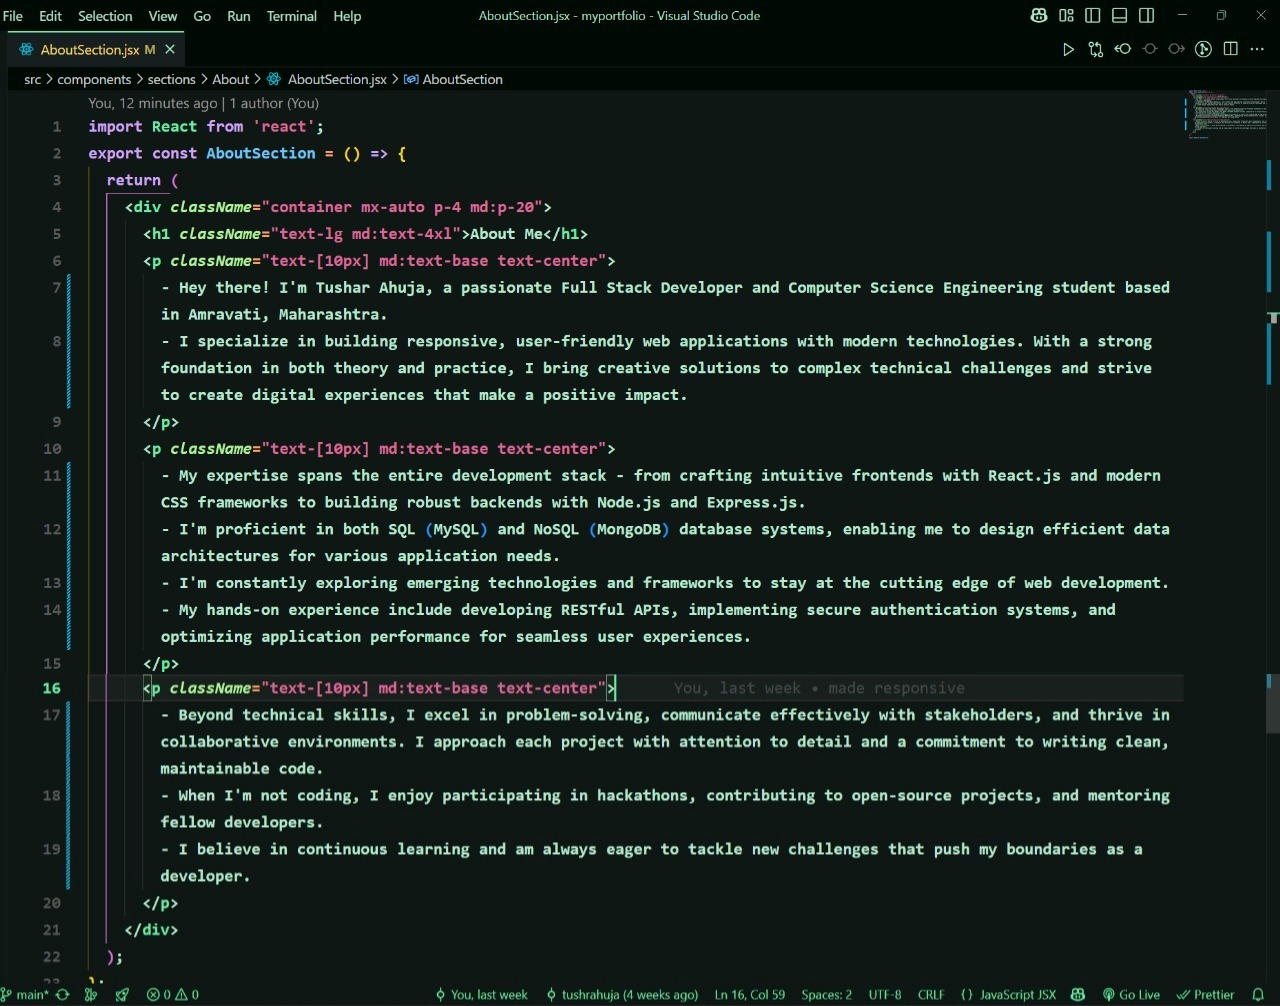
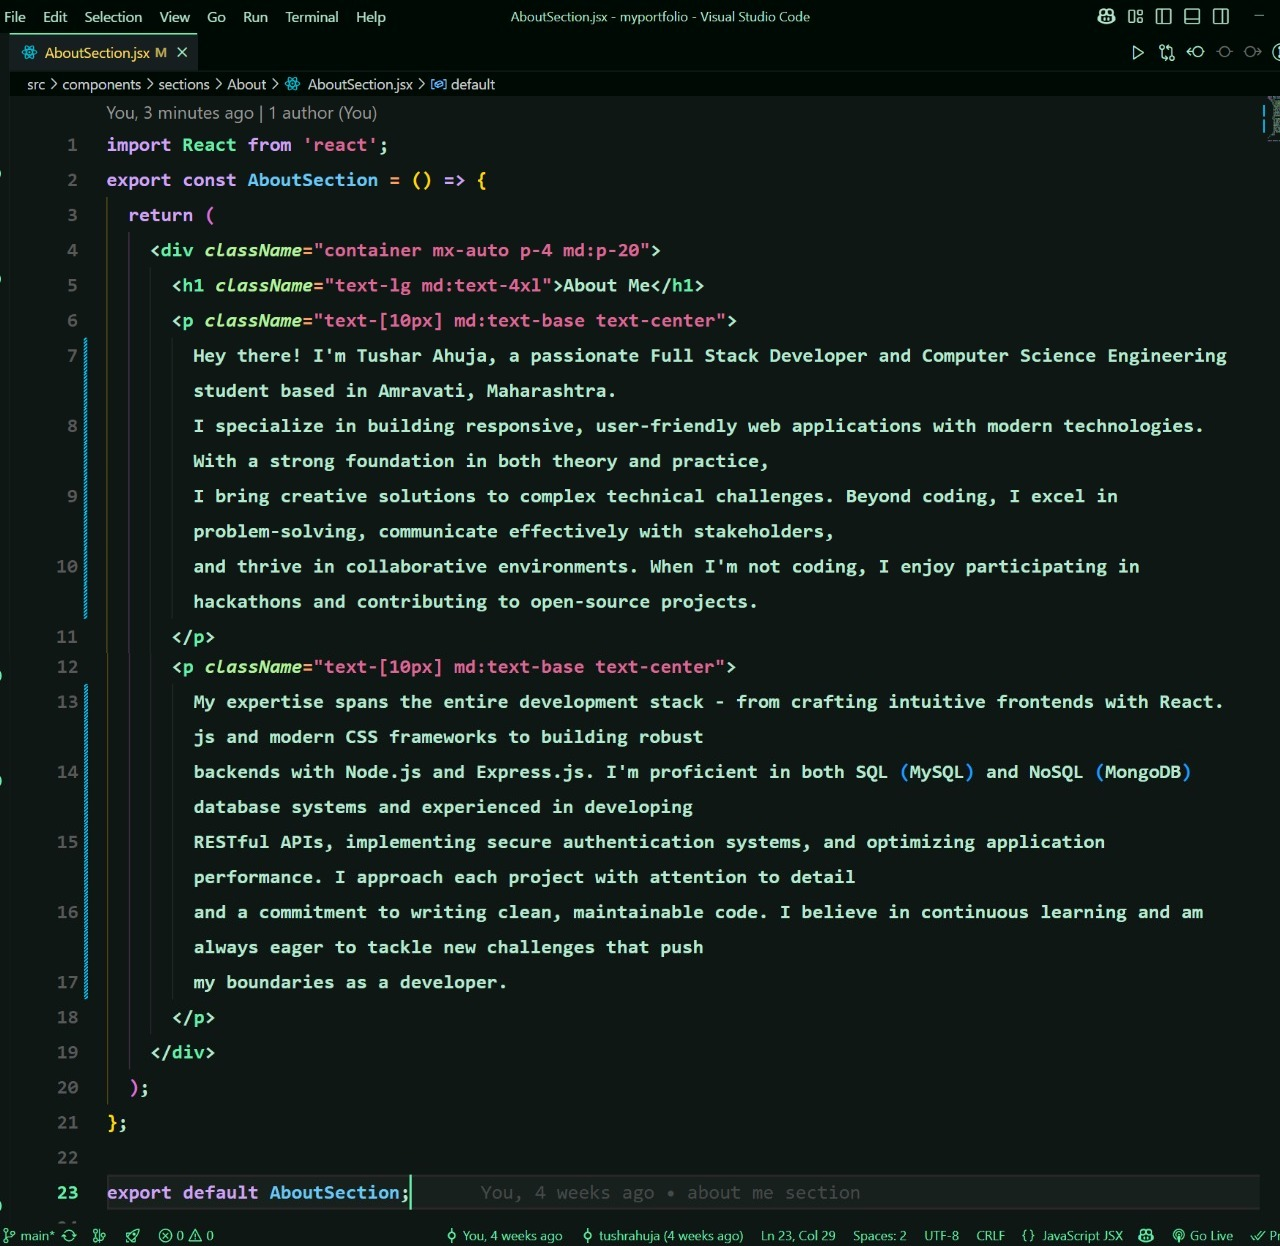
about me fixed

diff --git a/src/components/sections/About/ContainerScroll.jsx b/src/components/sections/About/ContainerScroll.jsx
@@ -2,8 +2,14 @@
 import React, { useRef } from "react";
 import { useScroll, useTransform, motion } from "framer-motion";
 
-export const ContainerScroll = ({ titleComponent, children }) => {
+export const ContainerScroll = ({
+  titleComponent,
+  children
+}) => {
   const containerRef = useRef(null);
+  const { scrollYProgress } = useScroll({
+    target: containerRef,
+  });
   const [isMobile, setIsMobile] = React.useState(false);
 
   React.useEffect(() => {
@@ -17,38 +23,35 @@ export const ContainerScroll = ({ titleComponent, children }) => {
     };
   }, []);
 
-  const { scrollYProgress } = useScroll({
-    target: containerRef,
-    offset: isMobile 
-      ? ["start 80%", "center 20%"]  // Start animation earlier on mobile (at 80% from bottom of viewport)
-      : ["start 60%", "center center"]  // Keep original timing for laptop
-  });
-
   const scaleDimensions = () => {
-    return isMobile ? [0.8, 1] : [1.05, 1];
+    return isMobile ? [0.7, 0.9] : [1.05, 1];
   };
 
-  const rotate = useTransform(
-    scrollYProgress, 
-    [0, 1], 
-    isMobile ? [40, 0] : [30, 0]  // Increased initial rotation for laptop
-  );
+  const rotate = useTransform(scrollYProgress, [0, 1], [20, 0]);
   const scale = useTransform(scrollYProgress, [0, 1], scaleDimensions());
   const translate = useTransform(scrollYProgress, [0, 1], [0, -100]);
+  
+  // Add shadow transform
+  const shadowOpacity = useTransform(
+    scrollYProgress,
+    [0, 1],
+    ['0 0 #0000004d, 0 9px 20px #0000004a, 0 37px 37px #00000042, 0 84px 50px #00000026, 0 149px 60px #0000000a, 0 233px 65px #00000003',
+     '0 0 #0000002d, 0 4px 10px #0000002a, 0 15px 15px #00000022, 0 35px 25px #00000016, 0 60px 30px #0000000a, 0 95px 35px #00000003']
+  );
 
   return (
     <div
-      className="h-[45rem] md:h-[80rem] flex flex-col items-center justify-center relative p-0" // Removed pt-20 to eliminate extra space
+      className={`${isMobile ? 'h-[50rem] -mt-6' : 'h-[100rem]'} flex items-center justify-center relative p-0 w-full`} // Adjusted negative margin for mobile
       ref={containerRef}
     >
-      <Header translate={translate} titleComponent={titleComponent} />
       <div
-        className="w-full relative flex items-center justify-center"
+        className="py-0 w-full relative flex flex-col items-center justify-center"
         style={{
           perspective: "1000px",
         }}
       >
-        <Card rotate={rotate} translate={translate} scale={scale}>
+        <Header translate={translate} titleComponent={titleComponent} />
+        <Card rotate={rotate} translate={translate} scale={scale} shadowOpacity={shadowOpacity} isMobile={isMobile}>
           {children}
         </Card>
       </div>
@@ -62,23 +65,29 @@ export const Header = ({ translate, titleComponent }) => {
       style={{
         translateY: translate,
       }}
-      className="div max-w-5xl mx-auto text-center"
+      className="div max-w-5xl mx-auto text-center mb-0" // Removed all margin
     >
       {titleComponent}
     </motion.div>
   );
 };
 
-export const Card = ({ rotate, scale, translate, children }) => {
+export const Card = ({
+  rotate,
+  scale,
+  translate,
+  children,
+  isMobile,
+  shadowOpacity
+}) => {
   return (
     <motion.div
       style={{
         rotateX: rotate,
         scale,
-        boxShadow:
-          "0 0 #0000004d, 0 9px 20px #0000004a, 0 37px 37px #00000042, 0 84px 50px #00000026, 0 149px 60px #0000000a, 0 233px 65px #00000003",
+        boxShadow: shadowOpacity, // Use dynamic shadow
       }}
-      className="max-w-5xl mx-auto h-[35rem] md:h-[60rem] w-[98vw] md:w-full border-4 border-black p-1 md:p-6 bg-[#222222] rounded-[30px] shadow-2xl" // Kept borders intact
+      className={`max-w-5xl mx-auto ${isMobile ? 'h-[40rem] w-[100%] px-2' : 'h-[60rem] w-full p-6'} border-4 border-black bg-[#222222] rounded-[30px] shadow-2xl`}
     >
       <div className="h-full w-full overflow-hidden rounded-2xl bg-black dark:bg-zinc-900 border-4 border-lightblue dark:border-gray-600">
         {children}

diff --git a/src/components/sections/About/AboutSection.jsx b/src/components/sections/About/AboutSection.jsx
@@ -1,22 +1,16 @@
 import React from 'react';
+
 export const AboutSection = () => {
   return (
-    <div className="container mx-auto p-4 md:p-20">
-      <h1 className="text-lg md:text-4xl">About Me</h1>
-      <p className="text-[10px] md:text-base text-center">
-        - Hey there! I'm Tushar Ahuja, a passionate Full Stack Developer and Computer Science Engineering student based in Amravati, Maharashtra. 
-        - I specialize in building responsive, user-friendly web applications with modern technologies. With a strong foundation in both theory and practice, I bring creative solutions to complex technical challenges and strive to create digital experiences that make a positive impact.
+    <div className="container mx-auto p-4">
+      <p className="text-[10px] text-center mb-4">
+        Hey there! I'm Tushar Ahuja, a passionate Full Stack Developer and Computer Science Engineering student based in Amravati, Maharashtra. 
+        I specialize in building responsive, user-friendly web applications with modern technologies. With a strong foundation in both theory and practice, 
+        I bring creative solutions to complex technical challenges.
       </p>
-      <p className="text-[10px] md:text-base text-center">
-        - My expertise spans the entire development stack - from crafting intuitive frontends with React.js and modern CSS frameworks to building robust backends with Node.js and Express.js. 
-        - I'm proficient in both SQL (MySQL) and NoSQL (MongoDB) database systems, enabling me to design efficient data architectures for various application needs. 
-        - I'm constantly exploring emerging technologies and frameworks to stay at the cutting edge of web development. 
-        - My hands-on experience include developing RESTful APIs, implementing secure authentication systems, and optimizing application performance for seamless user experiences.
-      </p>
-      <p className="text-[10px] md:text-base text-center">
-        - Beyond technical skills, I excel in problem-solving, communicate effectively with stakeholders, and thrive in collaborative environments. I approach each project with attention to detail and a commitment to writing clean, maintainable code.
-        - When I'm not coding, I enjoy participating in hackathons, contributing to open-source projects, and mentoring fellow developers.
-        - I believe in continuous learning and am always eager to tackle new challenges that push my boundaries as a developer.
+      <p className="text-[10px] text-center">
+        My expertise spans the entire development stack - from crafting intuitive frontends with React.js and modern CSS frameworks to building robust 
+        backends with Node.js and Express.js. I'm proficient in both SQL (MySQL) and NoSQL (MongoDB) database systems and experienced in developing RESTful APIs, implementing secure authentication systems, and optimizing application performance.
       </p>
     </div>
   );

diff --git a/src/components/sections/About/index.jsx b/src/components/sections/About/index.jsx
@@ -4,10 +4,10 @@ import AboutContent from './AboutContent';
 
 const AboutSection = () => {
   return (
-    <div id="about">
+    <div id="about" className="w-full overflow-x-hidden mt-20 md:mt-0 md:-mb-32"> {/* Added negative margin bottom for laptop */}
       <ContainerScroll
         titleComponent={
-          <h2 className="text-3xl md:text-6xl lg:text-7xl font-bold text-blue-900 dark:text-blue-100 mb-12 md:mb-24">
+          <h2 className="text-3xl md:text-6xl lg:text-7xl font-bold text-blue-900 dark:text-blue-100 mb-0 md:-mt-20"> {/* Added negative margin top for laptop */}
             &lt; About Me /&gt;
           </h2>
         }

diff --git a/src/components/sections/About/AboutContent.jsx b/src/components/sections/About/AboutContent.jsx
@@ -21,11 +21,11 @@ const AboutContent = () => {
   }, []);
 
   return (
-    <div className="w-full h-full flex items-center justify-center overflow-hidden">
+    <div className="w-full h-full flex items-center justify-center">
       <img
         src={isMobile ? "/images/aboutme2.jpg" : "/images/aboutme.jpg"}
         alt="About Me"
-        className="w-full h-full object-cover transform scale-96" // Slight zoom out with scale-96
+        className={`w-full h-full object-fill ${isMobile ? 'scale-110' : 'scale-100'}`}
         draggable={false}
       />
     </div>
